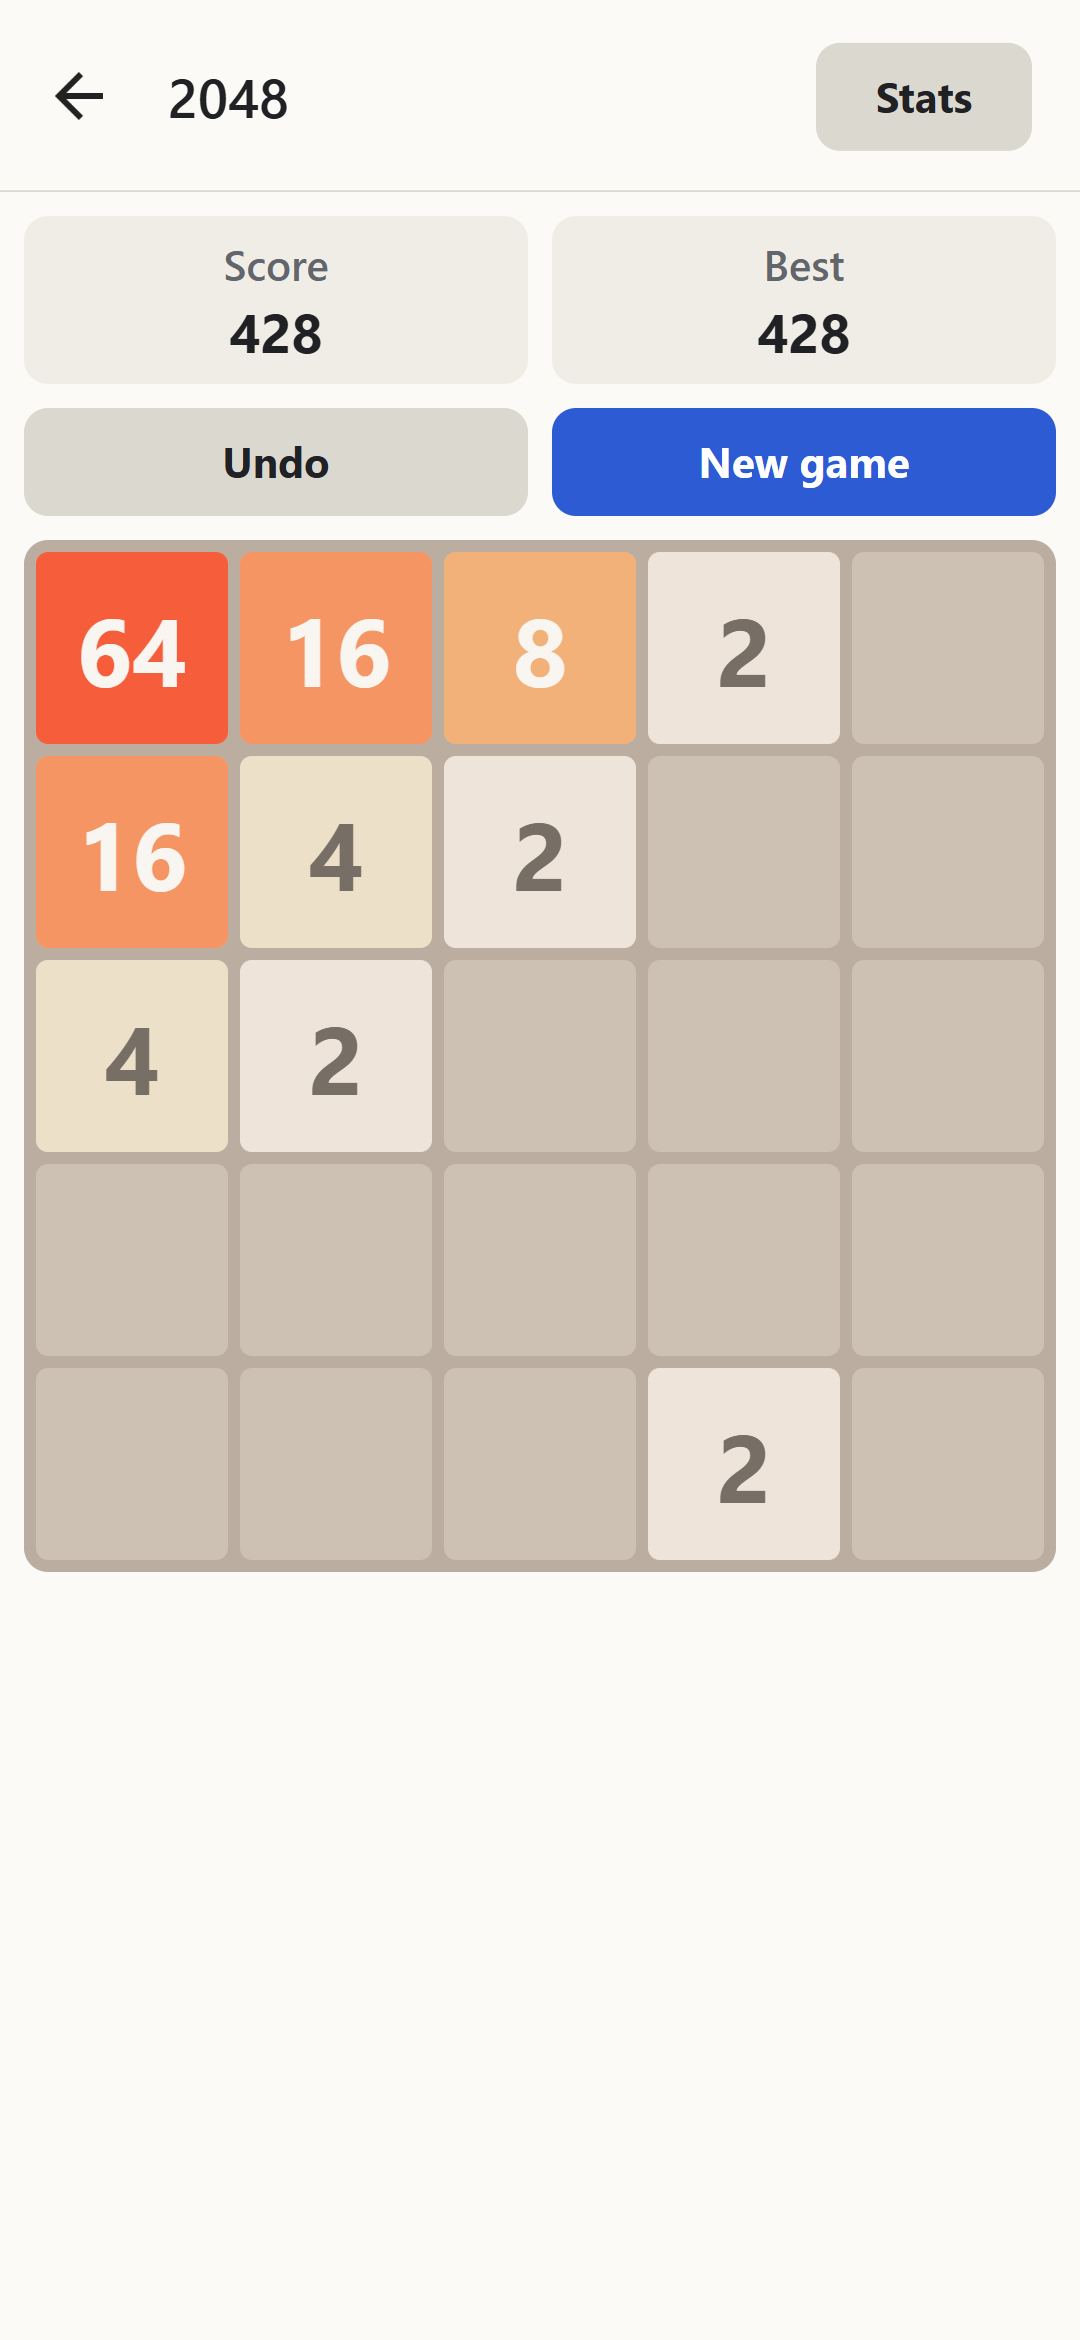
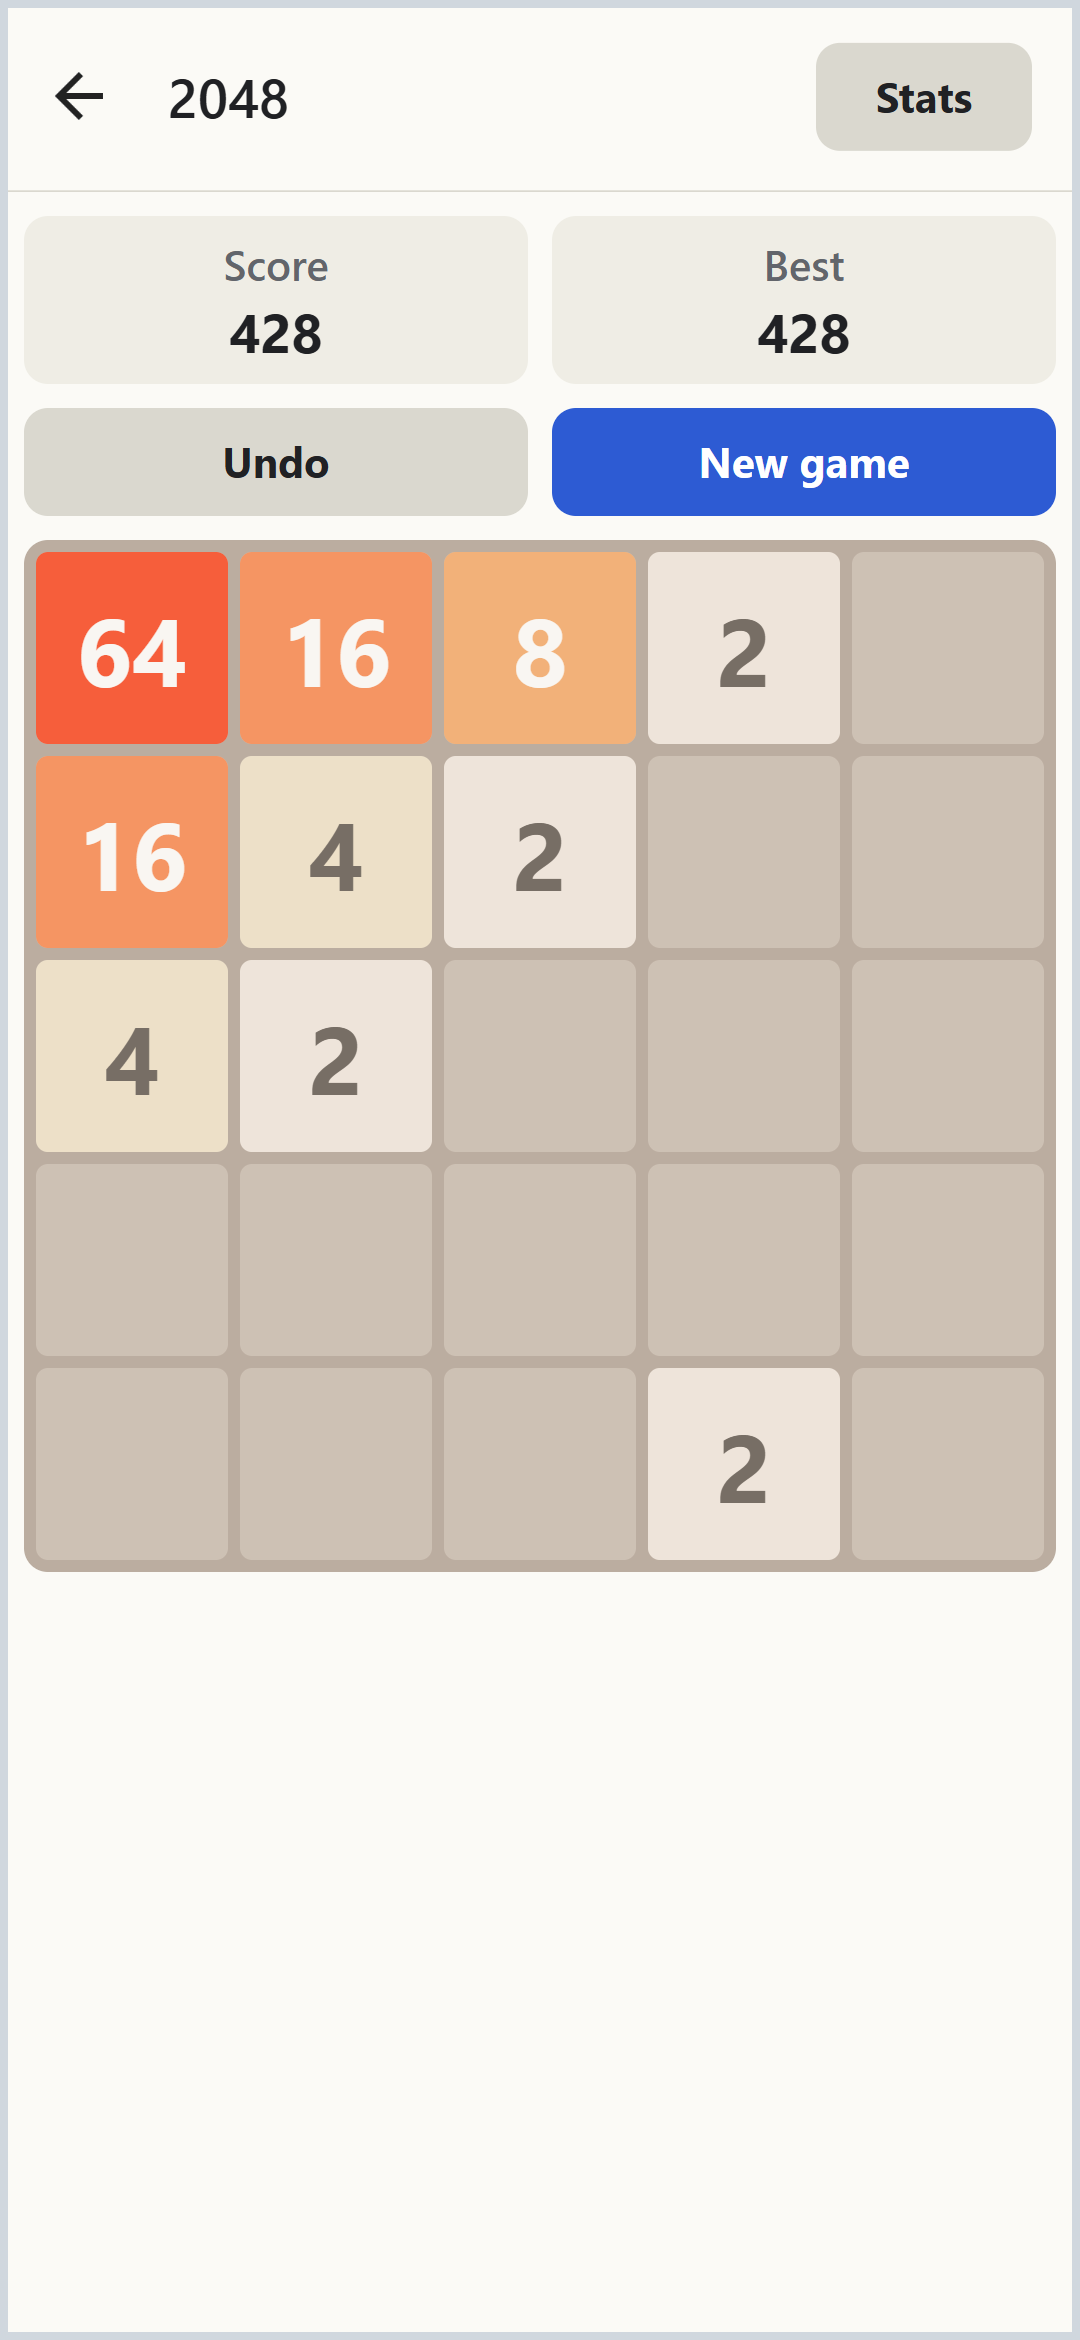
Docs: README polish (light frame on the screenshots, space under the cell titles, Features colon, Android heading, Node and npm versions)

Changed region(s): [[0.0, 0.0, 1.0, 1.0]]

diff --git a/README.md b/README.md
@@ -4,16 +4,16 @@ Fully vibe-coded hub of simple games for Android built with [Expo](https://expo.
 
 <table>
 <tr>
-<td align="center" valign="top" width="25%"><b>Hub menu</b><br><img src="docs/images/home.png" width="180" alt="Hub menu"><br>Sort the games by Recent, Name or Playtime.</td>
-<td align="center" valign="top" width="25%"><b>Hub menu (dark)</b><br><img src="docs/images/home-dark.png" width="180" alt="Hub menu in dark mode"><br>Light and dark mode follow the system.</td>
-<td align="center" valign="top" width="25%"><b>Sudoku</b><br><img src="docs/images/sudoku.png" width="180" alt="Sudoku"><br>Five difficulty levels, notes, hints, undo and redo.</td>
-<td align="center" valign="top" width="25%"><b>2048</b><br><img src="docs/images/2048.png" width="180" alt="2048"><br>Boards from 4×4 to 7×7, swipe to play.</td>
+<td align="center" valign="top" width="25%"><p><b>Hub menu</b></p><img src="docs/images/home.png" width="180" alt="Hub menu"><br>Sort the games by Recent, Name or Playtime.</td>
+<td align="center" valign="top" width="25%"><p><b>Hub menu (dark)</b></p><img src="docs/images/home-dark.png" width="180" alt="Hub menu in dark mode"><br>Light and dark mode follow the system.</td>
+<td align="center" valign="top" width="25%"><p><b>Sudoku</b></p><img src="docs/images/sudoku.png" width="180" alt="Sudoku"><br>Five difficulty levels, notes, hints, undo and redo.</td>
+<td align="center" valign="top" width="25%"><p><b>2048</b></p><img src="docs/images/2048.png" width="180" alt="2048"><br>Boards from 4×4 to 7×7, swipe to play.</td>
 </tr>
 <tr>
-<td align="center" valign="top" width="25%"><b>Minesweeper</b><br><img src="docs/images/minesweeper.png" width="180" alt="Minesweeper"><br>Three levels, flag mode or long press, a safe first tap.</td>
-<td align="center" valign="top" width="25%"><b>Make 24</b><br><img src="docs/images/make24.png" width="180" alt="Make 24"><br>Combine four numbers with + − × ÷ to make 24.</td>
-<td align="center" valign="top" width="25%"><b>Snake</b><br><img src="docs/images/snake.png" width="180" alt="Snake"><br>Three speeds, swipe to turn, eat apples to grow.</td>
-<td align="center" valign="top" width="25%"><b>Anagrams</b><br><img src="docs/images/anagram.png" width="180" alt="Anagrams"><br>Unscramble as many words as you can in 60 seconds.</td>
+<td align="center" valign="top" width="25%"><p><b>Minesweeper</b></p><img src="docs/images/minesweeper.png" width="180" alt="Minesweeper"><br>Three levels, flag mode or long press, a safe first tap.</td>
+<td align="center" valign="top" width="25%"><p><b>Make 24</b></p><img src="docs/images/make24.png" width="180" alt="Make 24"><br>Combine four numbers with + − × ÷ to make 24.</td>
+<td align="center" valign="top" width="25%"><p><b>Snake</b></p><img src="docs/images/snake.png" width="180" alt="Snake"><br>Three speeds, swipe to turn, eat apples to grow.</td>
+<td align="center" valign="top" width="25%"><p><b>Anagrams</b></p><img src="docs/images/anagram.png" width="180" alt="Anagrams"><br>Unscramble as many words as you can in 60 seconds.</td>
 </tr>
 </table>
 
@@ -22,7 +22,7 @@ Fully vibe-coded hub of simple games for Android built with [Expo](https://expo.
 - **Hub main menu**: a grid of game tiles. Sort it by Recent, Name or Playtime; the app remembers your choice.
 - **Independent games**: each game saves its game in progress and keeps its own stats.
 - **Playtime**: the hub counts how long each game is open while the app is in front, for the Playtime sort.
-- **Light and dark mode** follow the system setting.
+- **Light and dark mode**: follows the system setting.
 
 ## How it was developed with Claude Code
 
@@ -41,9 +41,7 @@ The project was built with [Claude Code](https://claude.com/claude-code); the ru
 1. `npm install` (once, optionally run tests with `npm test`)
 2. `npx expo start`, then press `w`
 
-## Run it on Android
-
-Pick one:
+## Run it on Android (Pick one)
 
 - **Install the release APK**: download it from the [Releases page](../../releases/latest), open it on the phone, and allow "Install unknown apps" when asked.
 - **Build the APK in the cloud** with [EAS](https://expo.dev/eas) (free Expo account): after `npm install`, with your own Expo account first remove `extra.eas.projectId` from `app.json` and run `npx eas-cli@latest init`, then run `npx eas-cli@latest build -p android --profile preview`. EAS gives a download link; install the APK like the release one.
@@ -51,7 +49,7 @@ Pick one:
 
 ## Development
 
-Needs a current Node LTS and npm.
+Built and tested with Node 22.13.0 (LTS) and npm 11.0.0; other current Node LTS versions should work.
 
 - `npm test` runs the Jest tests.
 - `npm run gate` runs the type check, the tests, lint (with Prettier formatting) and a [gitleaks](https://github.com/gitleaks/gitleaks) scan of the staged files, so gitleaks must be installed. Stage your changes with `git add` first, because the scan checks staged content.
